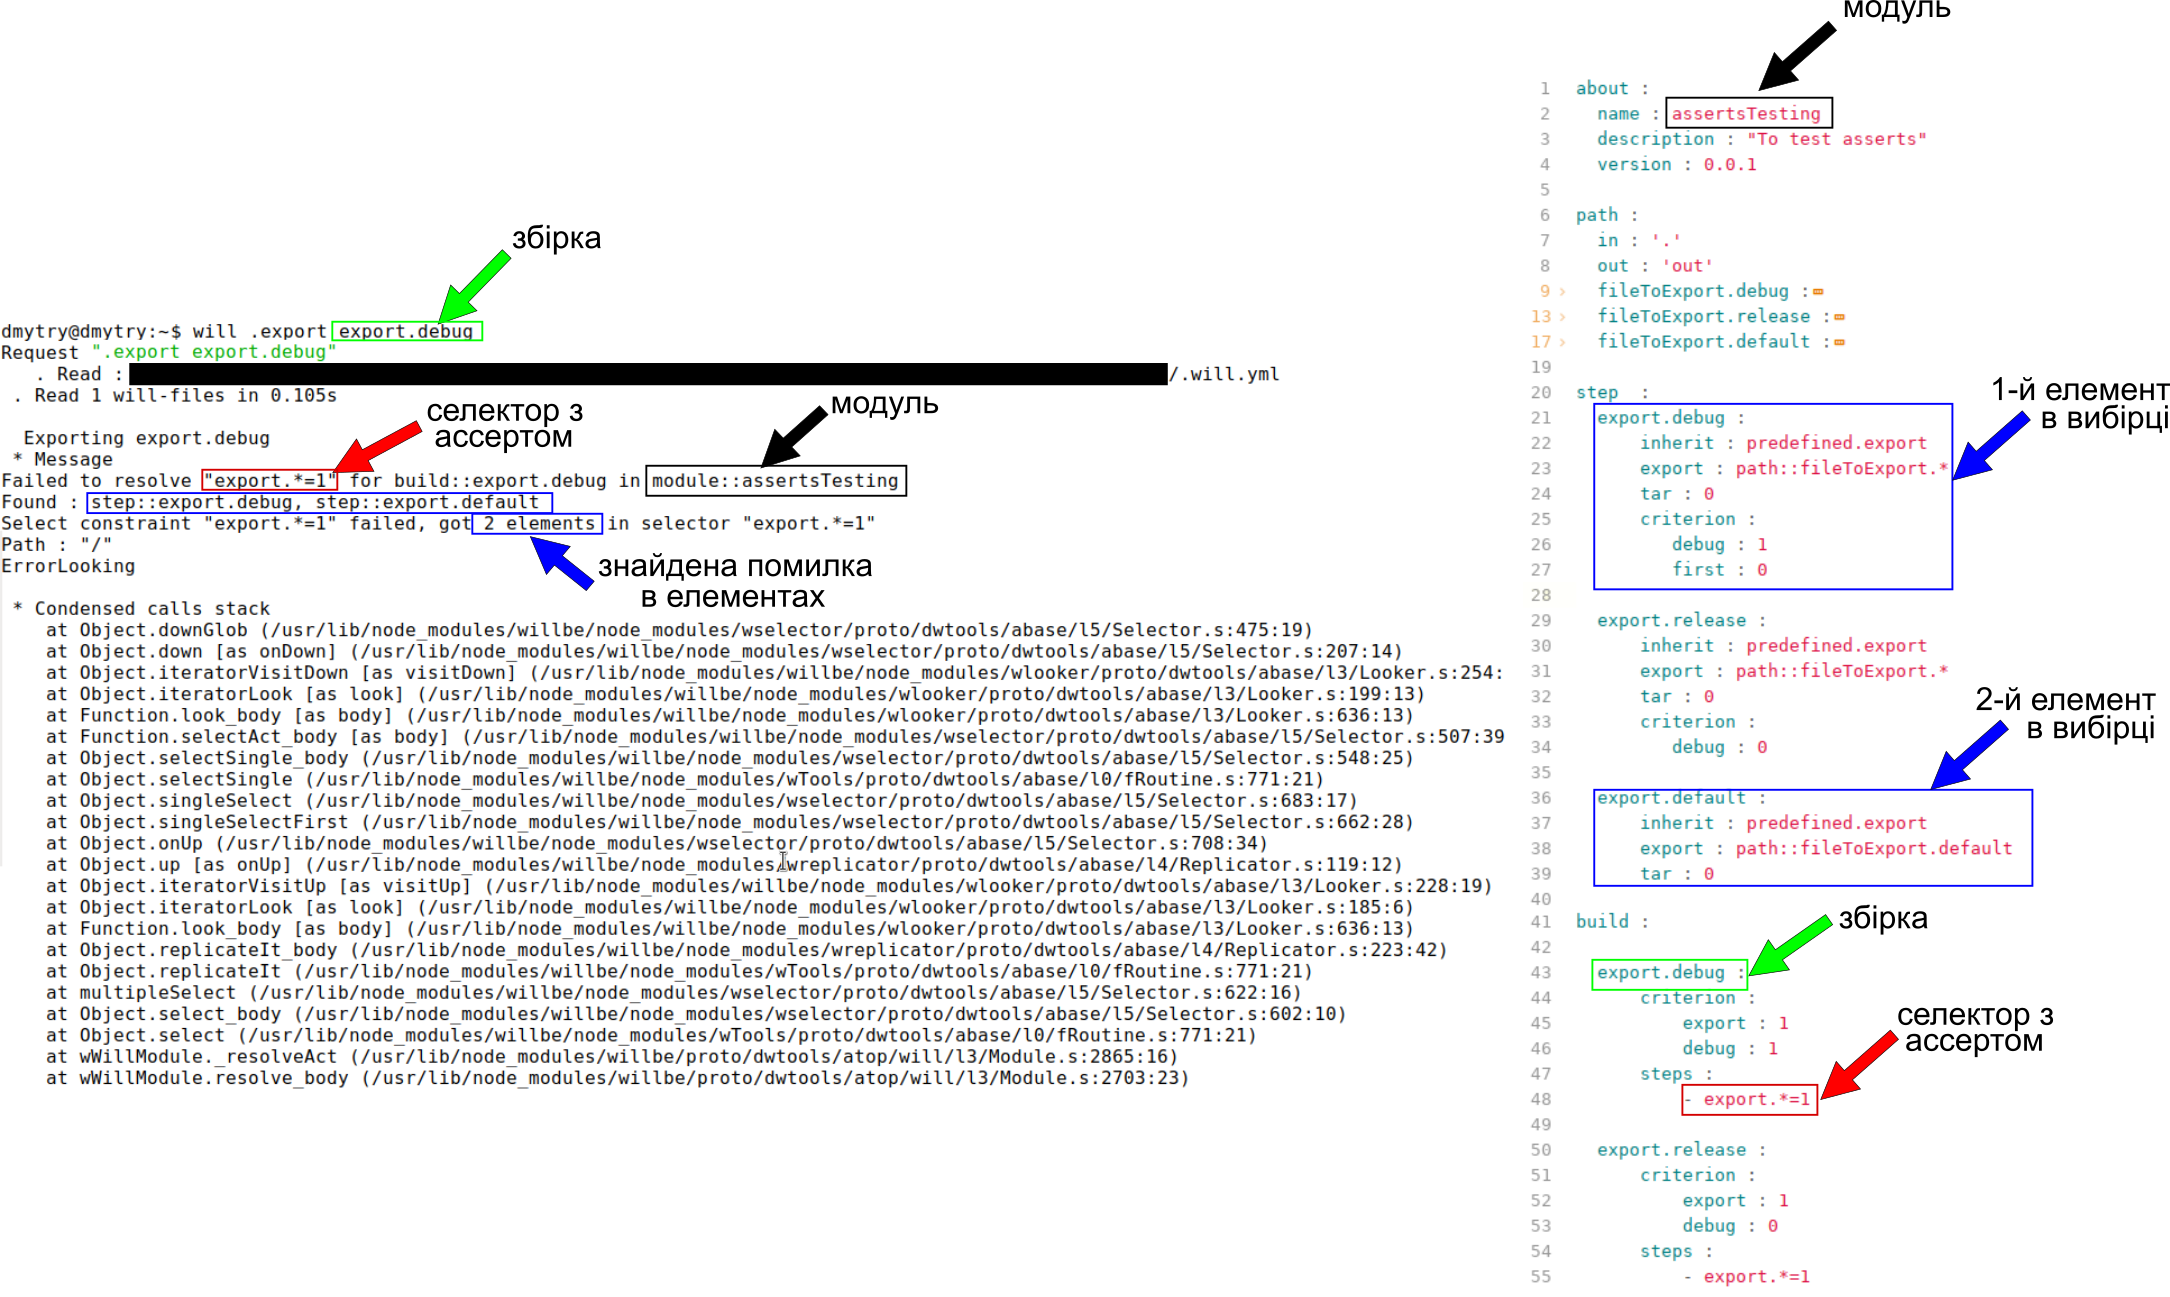
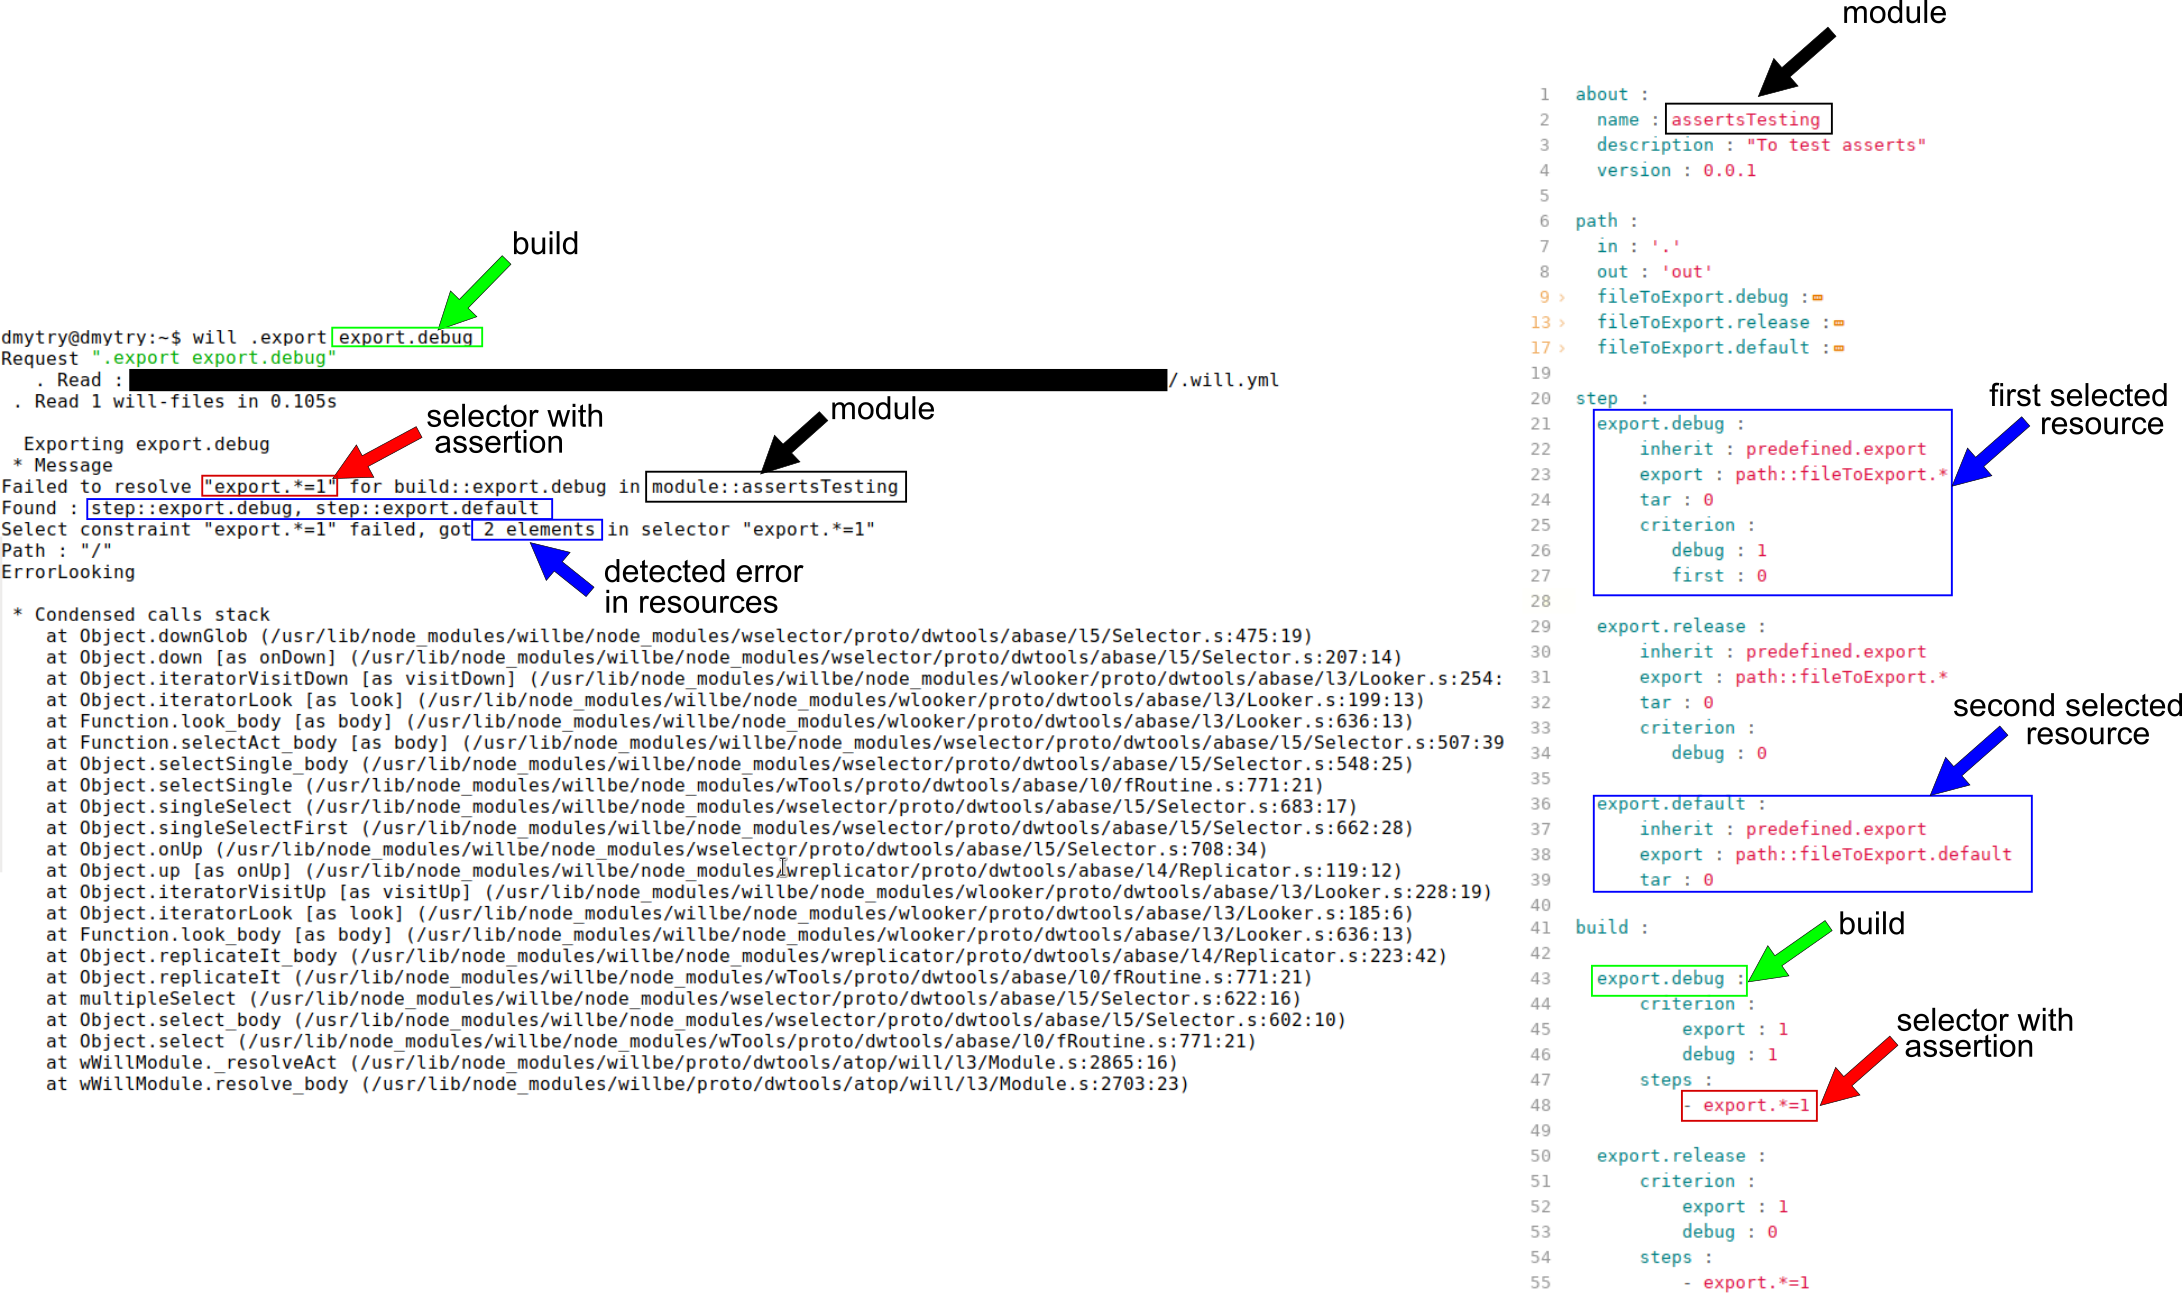
Assert Image update

Changed region(s): [[0.0, 0.0308, 1.0, 1.0], [0.2161, 0.1542, 0.2779, 0.2159], [0.8336, 0.0, 0.8954, 0.0308]]

diff --git a/doc/version2.ukr/tutorial/AssertsUsing.md b/doc/version2.ukr/tutorial/AssertsUsing.md
@@ -117,10 +117,10 @@ Cant find step export.*
 
 Введіть команду `will .export export.debug` в кореневій директорії файла `.will.yml`.
 
-Утиліта не знайшла крок `export.*`, хоча є три. Додайте ассерт для вибору одного файла в селектор `export.*` збірок секції `build` та повторіть ввід команди:
+Утиліта не знайшла крок `export.*`, хоча в секції `step` є три. Додайте ассерт для вибору одного кроку в селектори збірок секції `build` та повторіть ввід команди:
 
 <details>
-    <summary><u>Код файла <code>.will.yml</code> зі змінами</u></summary>
+    <summary><u>Код файла <code>.will.yml</code> з ассертами в секції <code>build</code></u></summary>
 
 ```yaml
 about :
@@ -192,7 +192,7 @@ build :
 
 </details>
 
-Інформація в консолі вказує, що допущена помилка в збірці `export.debug` - знайдено два кроки `Found : step::export.debug, step::export.default`, а очікувався один. Тобто, ресурс підтверджує істинність критеріонів, які не вказані в ньому тому. Утиліта `willbe` зчитала крок `export.default` як дійсний за відсутністю критеріона `debug`.   
+Інформація в консолі вказує, що допущена помилка в збірці `export.debug`. Утилітою знайдено два кроки: `Found : step::export.debug, step::export.default`, а очікувався один. Тобто, ресурс підтверджує істинність критеріонів, які не вказані в ньому тому. Утиліта `willbe` зчитала крок `export.default` як дійсний за відсутністю критеріона `debug`.   
 
 В порівнянні з попереднім виводом консолі, отримано дані про помилку в визначених ресурсах, що спрощує корегування файла. Для того, щоб виправити помилку, потрібно зробити ресурс унікальним. Для цього можна змінити назву ресурса і додати відповідну збірку або ж змінити мапу критеріонів.    
 
